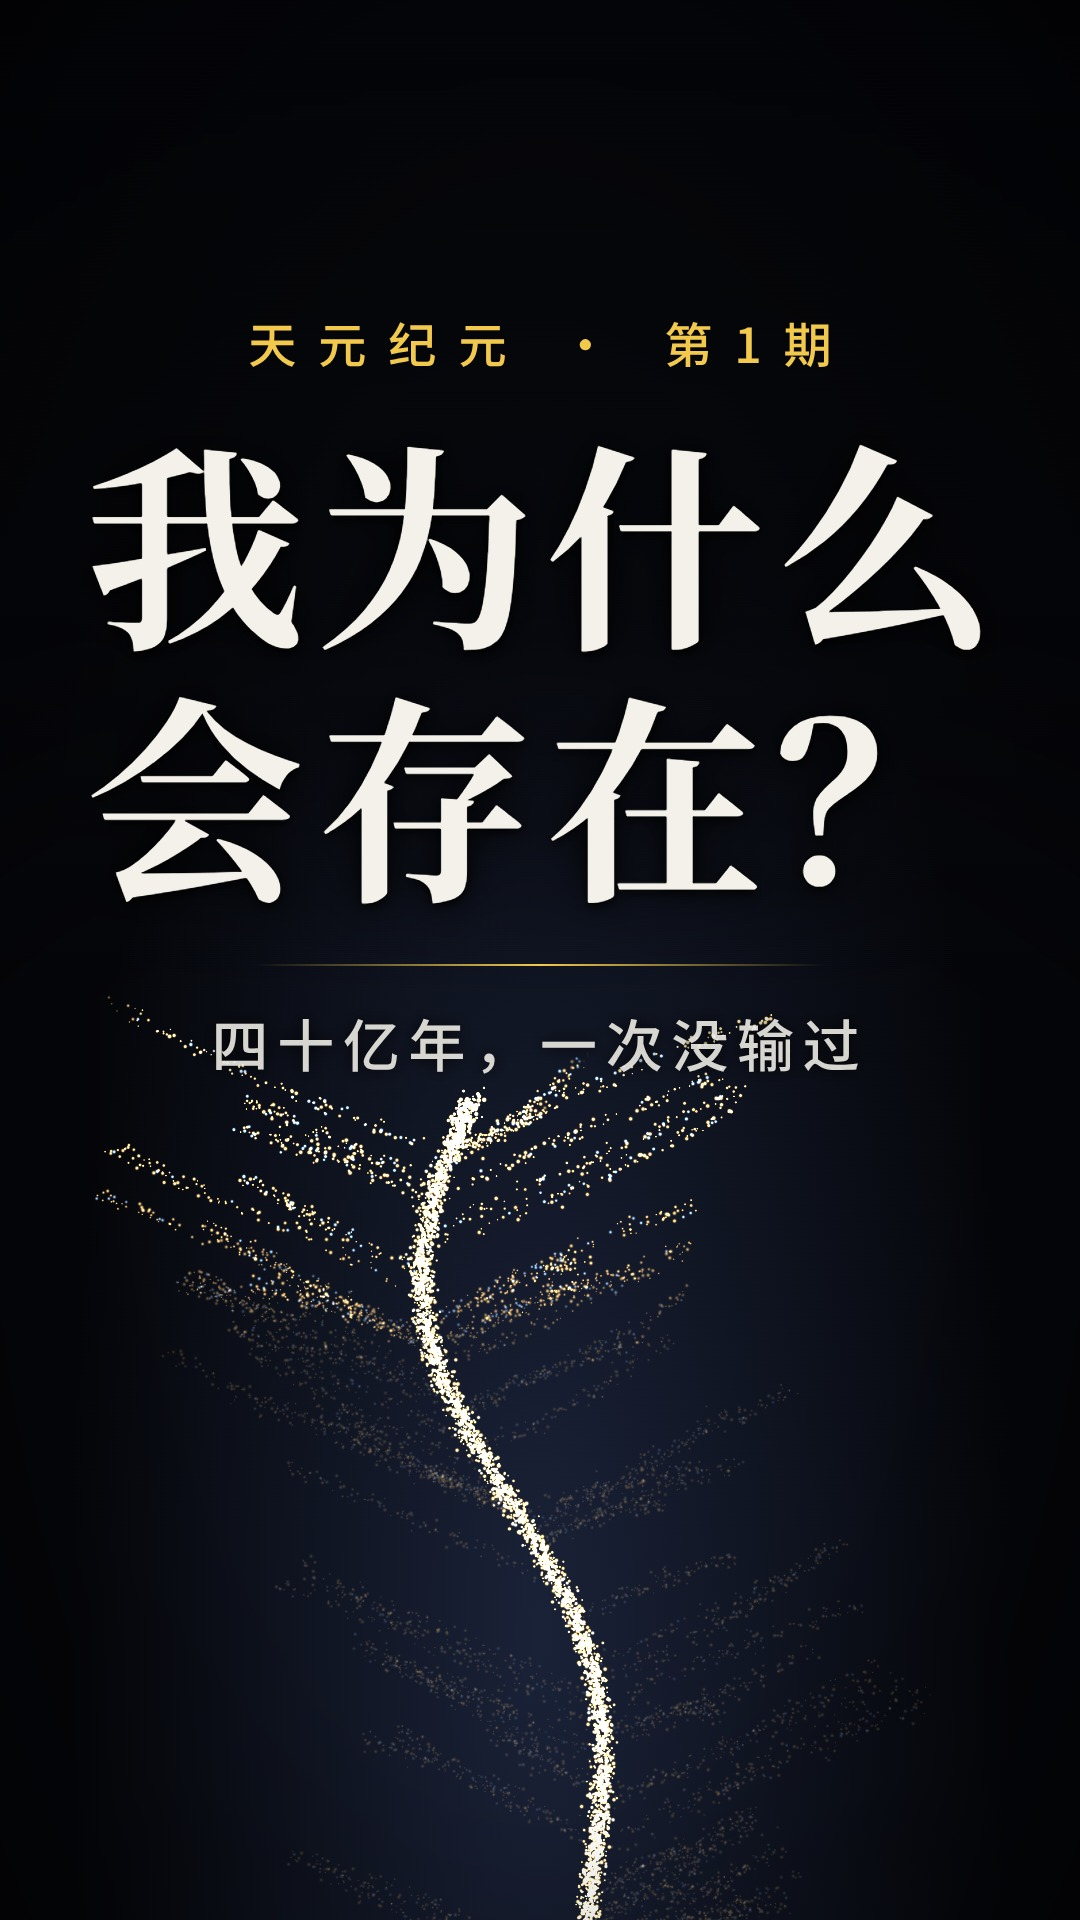
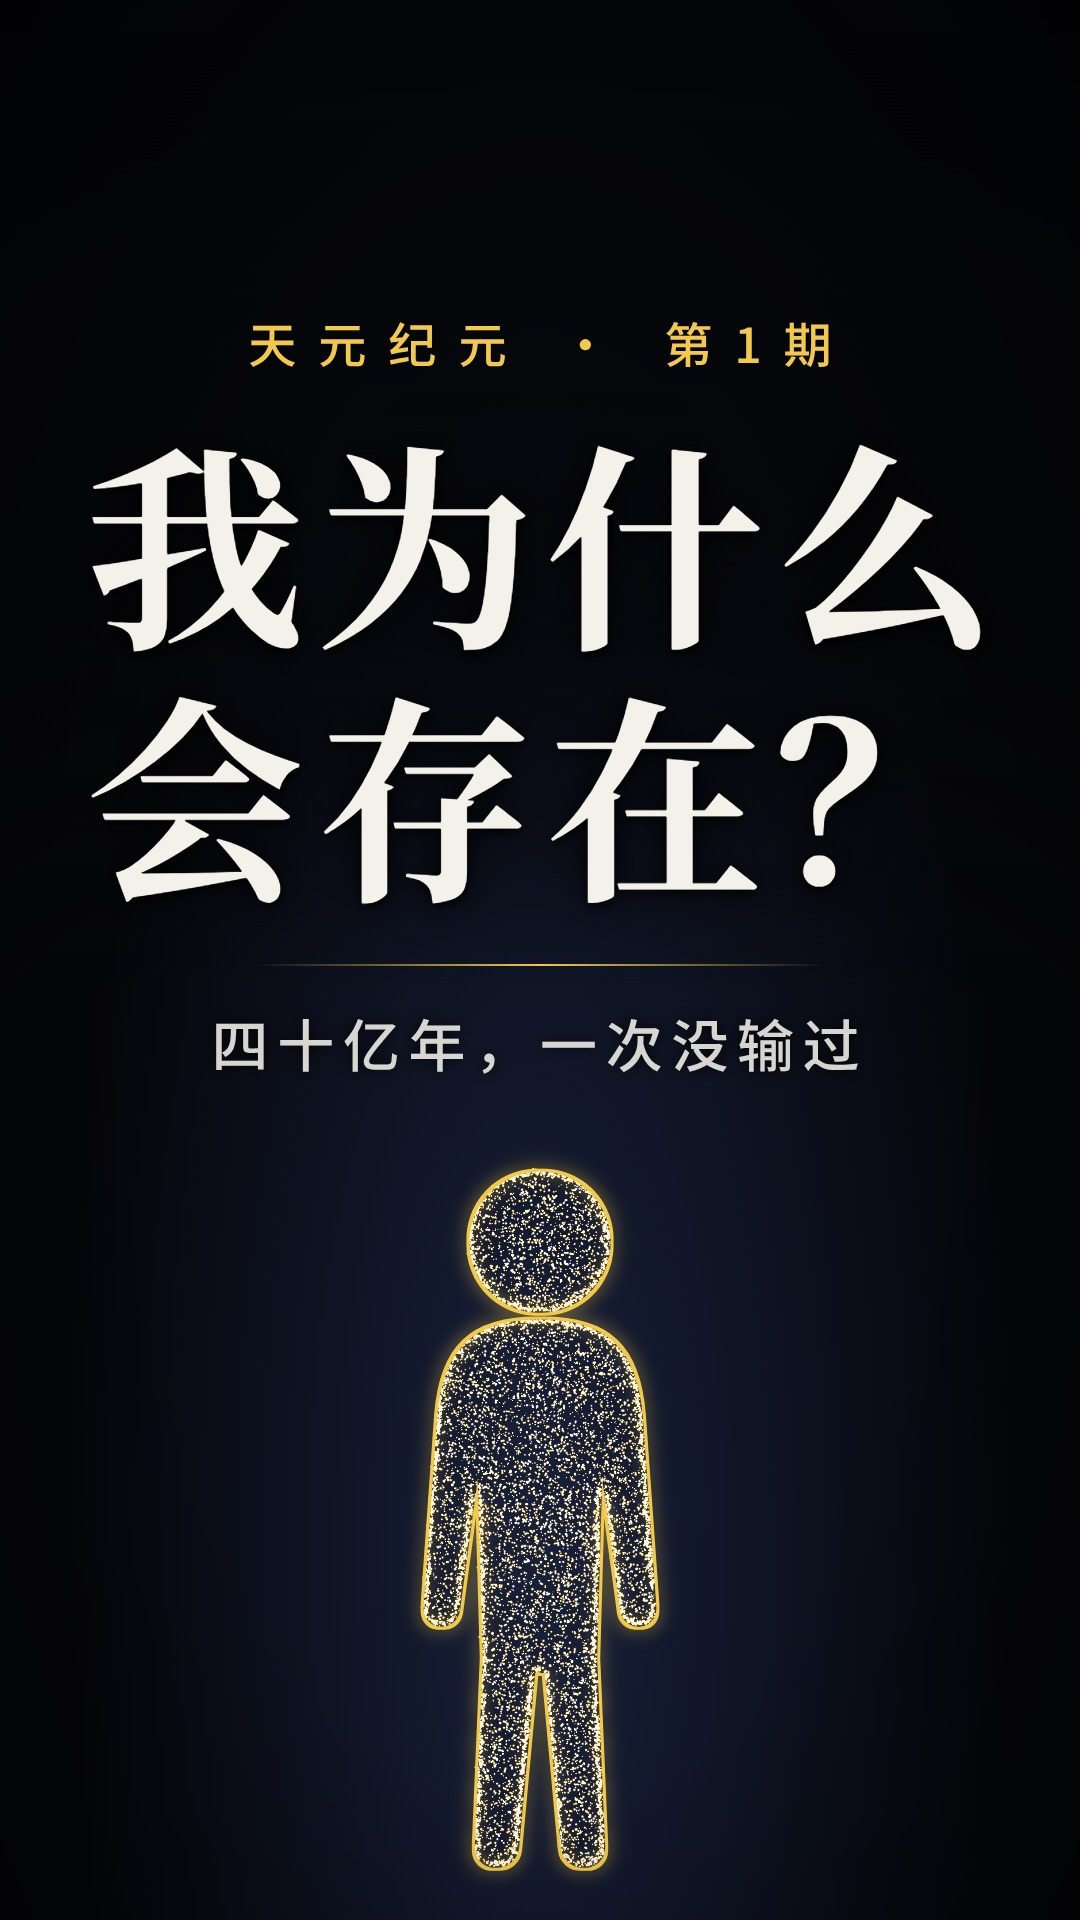
EP01 style C delivered: covers, publish copy, status
Claude-Session: https://claude.ai/code/session_01FDQcPRBtRTjdfv4a3ZhmvF

diff --git a/episodes/EP01_存在/STATUS.md b/episodes/EP01_存在/STATUS.md
@@ -32,5 +32,10 @@
 - 新增 `docs/分镜与转场规范.md`；样片转场重做：共享世界坐标的镜头（粒子与线描同步推拉摇移），人→精子群变形、卵子描线画出、推进卵子、光点上升成标题之光、下摇时同一光点成为小行星、史前场景缩进地球撞击点。
 - 样片：`deliver/EP01_风格C样片_转场版.mp4`。
 
+## 风格 C 全片（2026-11-12）
+- 用户确认风格 C + 转场版，要求做完整视频。全片分镜见 `SHOTLIST_C.md`（25 个镜头，转场全部由粒子变形 / 光线 / 连续镜头衔接）。
+- 成片：`deliver/EP01_我为什么会存在_风格C_1080p.mp4`（85MB）+ 720p 预览（41MB）；1080p30，195.07 秒，-16.0 LUFS，无黑场。
+- 封面已换为风格 C（粒子人形 + 金色描线），四比例覆盖 `cover/`。
+
 ## 下一步唯一可执行任务
-- 用户看风格 C 样片：若认可，按风格 C 重做 EP01 全片，并作为之后各期的默认风格。
+- 用户审看风格 C 全片；之后 EP02 先出文字稿。

diff --git a/STATUS.md b/STATUS.md
@@ -5,5 +5,5 @@
 - 总纲：`docs/制作总纲_v1.0.md`、`docs/MASTER_OUTLINE_v3.0.md`；协作约定：`CLAUDE.md`
 - 系列策划案：`SERIES_BIBLE.md`
 - EP00 序章《人类：我们究竟是什么？》：已交付（无配乐成片、封面 v3、发布文案）
-- EP01 第1期《我为什么会存在？》：成片已交付待审（`deliver/`，3:15），封面四比例、发布文案 `episodes/EP01_存在/PUBLISH.md`
+- EP01 第1期《我为什么会存在？》：风格 C 全片已交付待审（`deliver/EP01_我为什么会存在_风格C_*`），封面四比例、发布文案 `episodes/EP01_存在/PUBLISH.md`
 - 下一步：用户审看 EP01；之后 EP02《你看到的世界是真的吗？》先出文字稿

diff --git a/episodes/EP01_存在/PUBLISH.md b/episodes/EP01_存在/PUBLISH.md
@@ -1,6 +1,6 @@
 # EP01 发布文案
 
-成片：`deliver/EP01_我为什么会存在_无配乐_1080p.mp4`（3:15，配乐由用户在平台内添加）
+成片：`deliver/EP01_我为什么会存在_风格C_1080p.mp4`（3:15，风格 C，配乐由用户在平台内添加）
 标题格式（全平台统一）：`期号｜《片名》`。钩子句放在封面字和文案首句。
 原则：不夸大；三种看法平等陈述，不暗示“设计论”；多重宇宙标明“尚无法验证”。
 
@@ -23,6 +23,7 @@
 00:46 宇宙的旋钮
 01:07 霍伊尔预言的碳能级
 01:31 水坑的故事
+01:56 泡泡宇宙
 02:08 人择原理与三种看法
 02:35 它只解释了一半
 02:52 那场连胜，还没有结束
